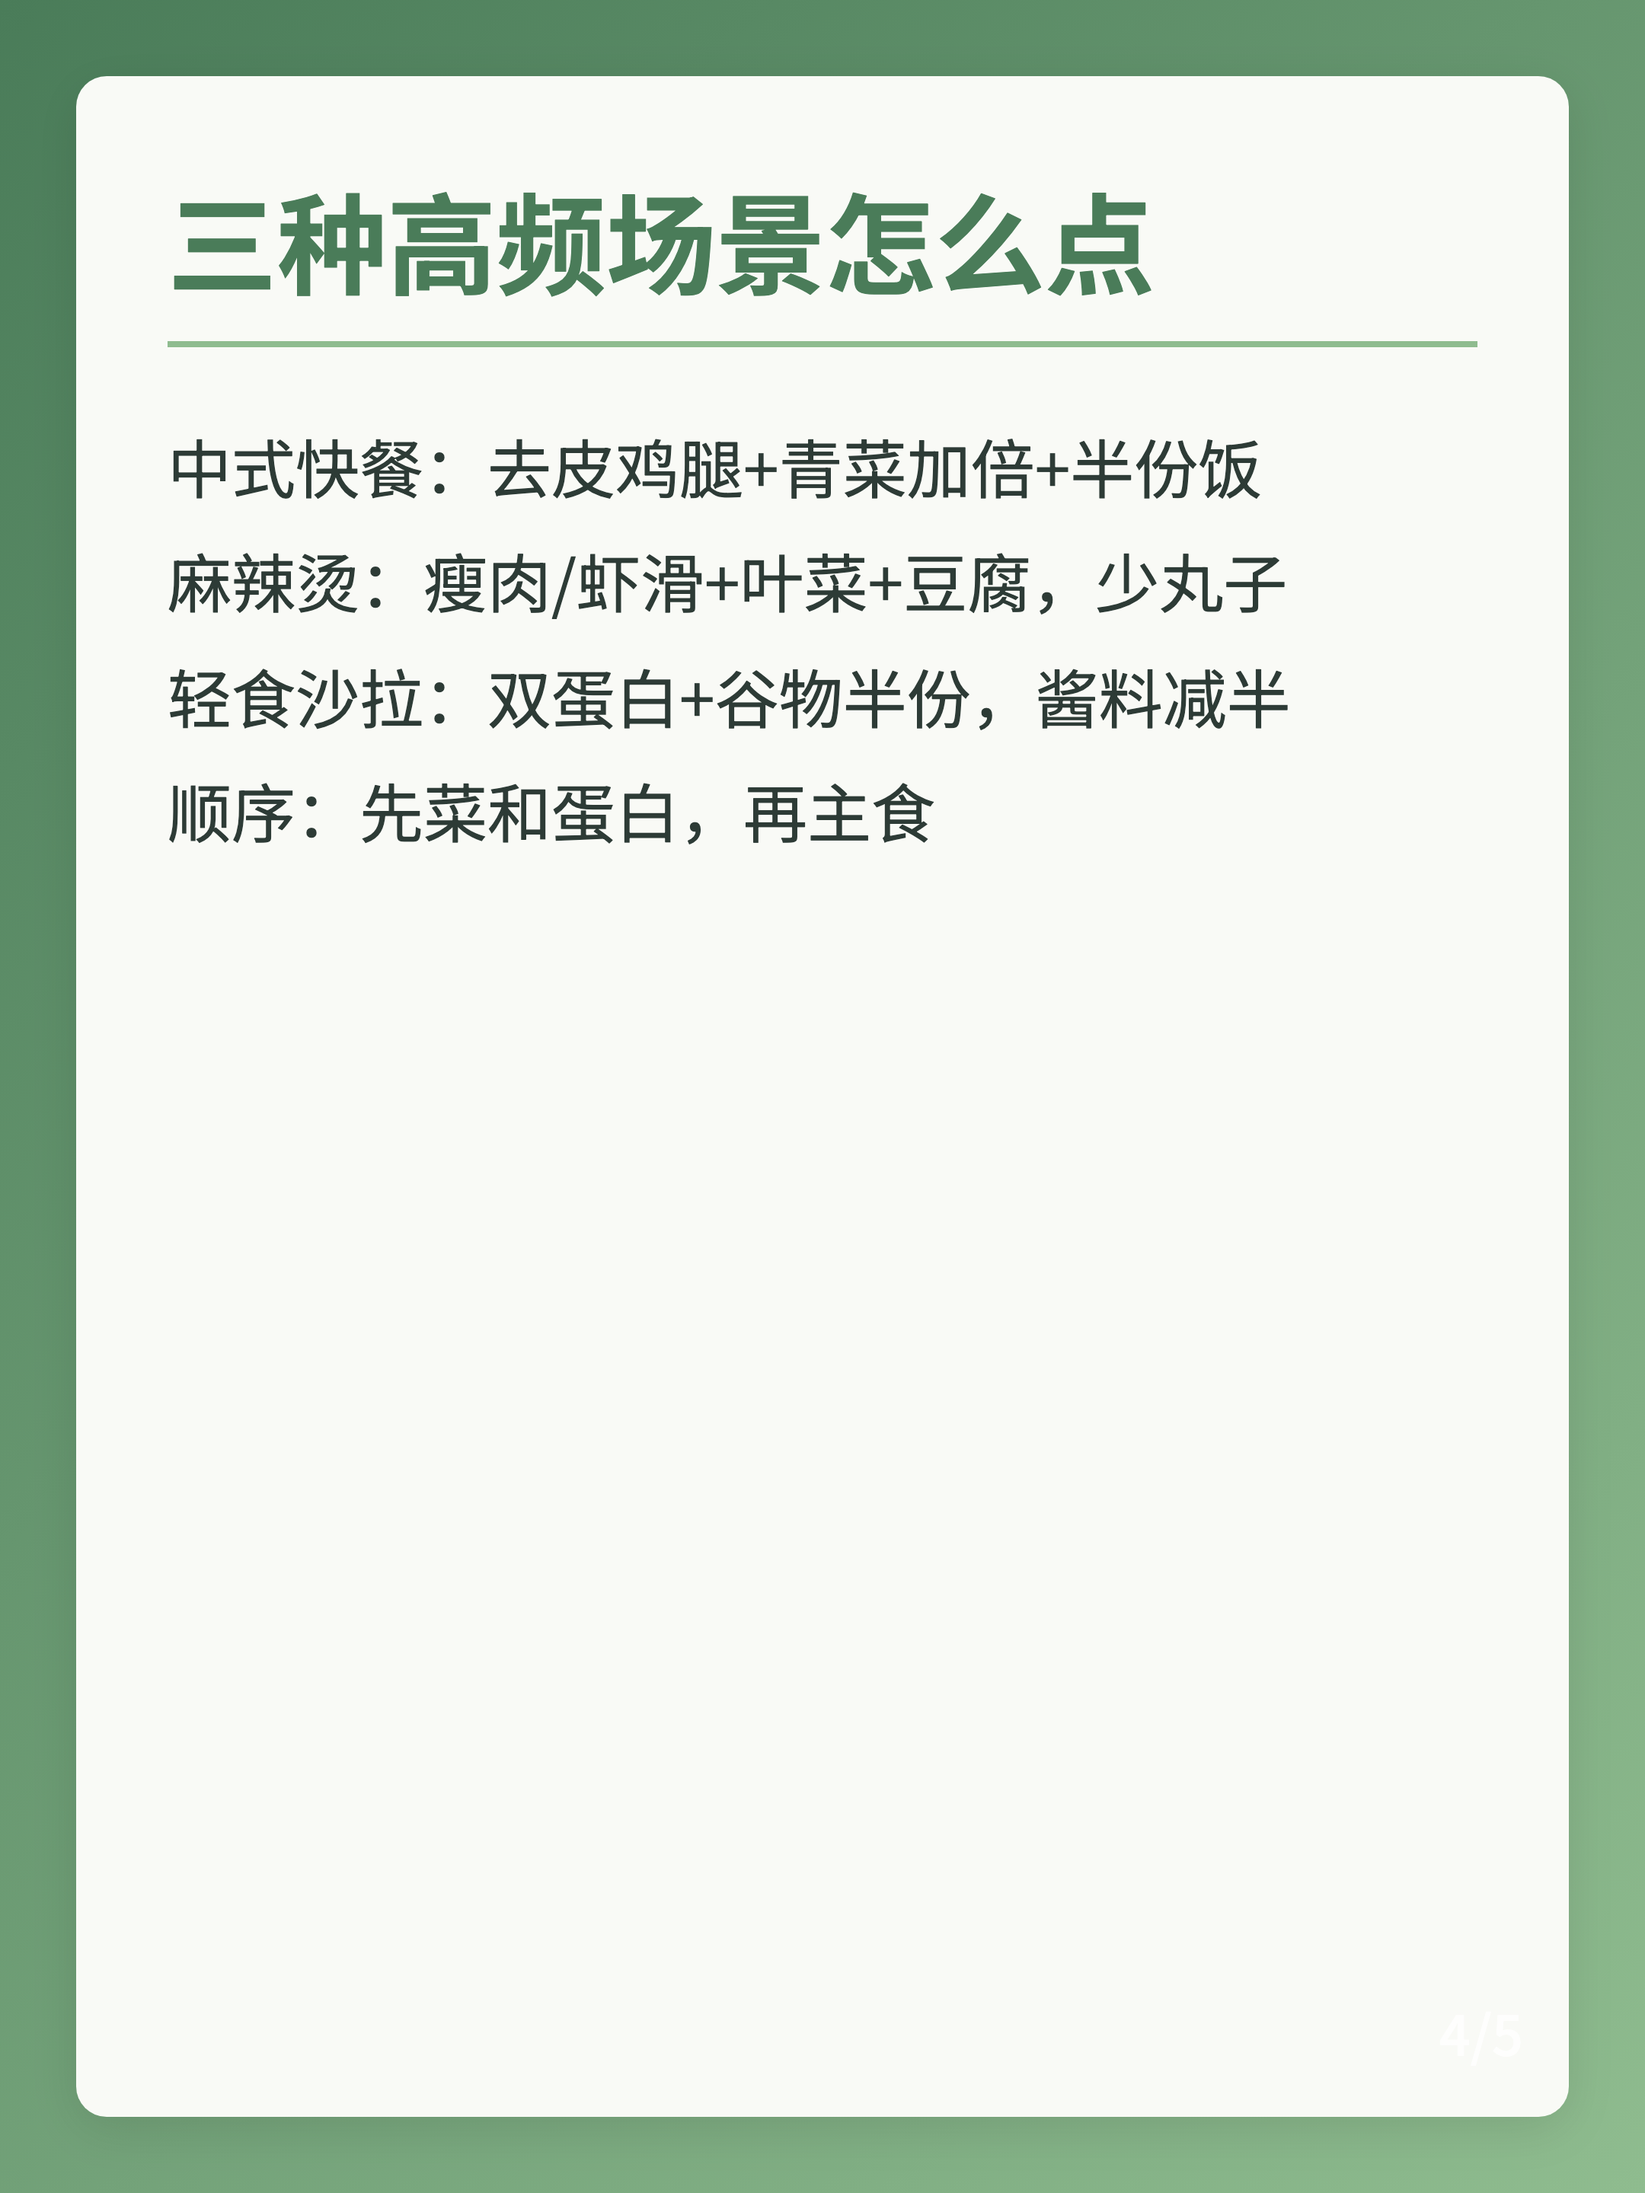
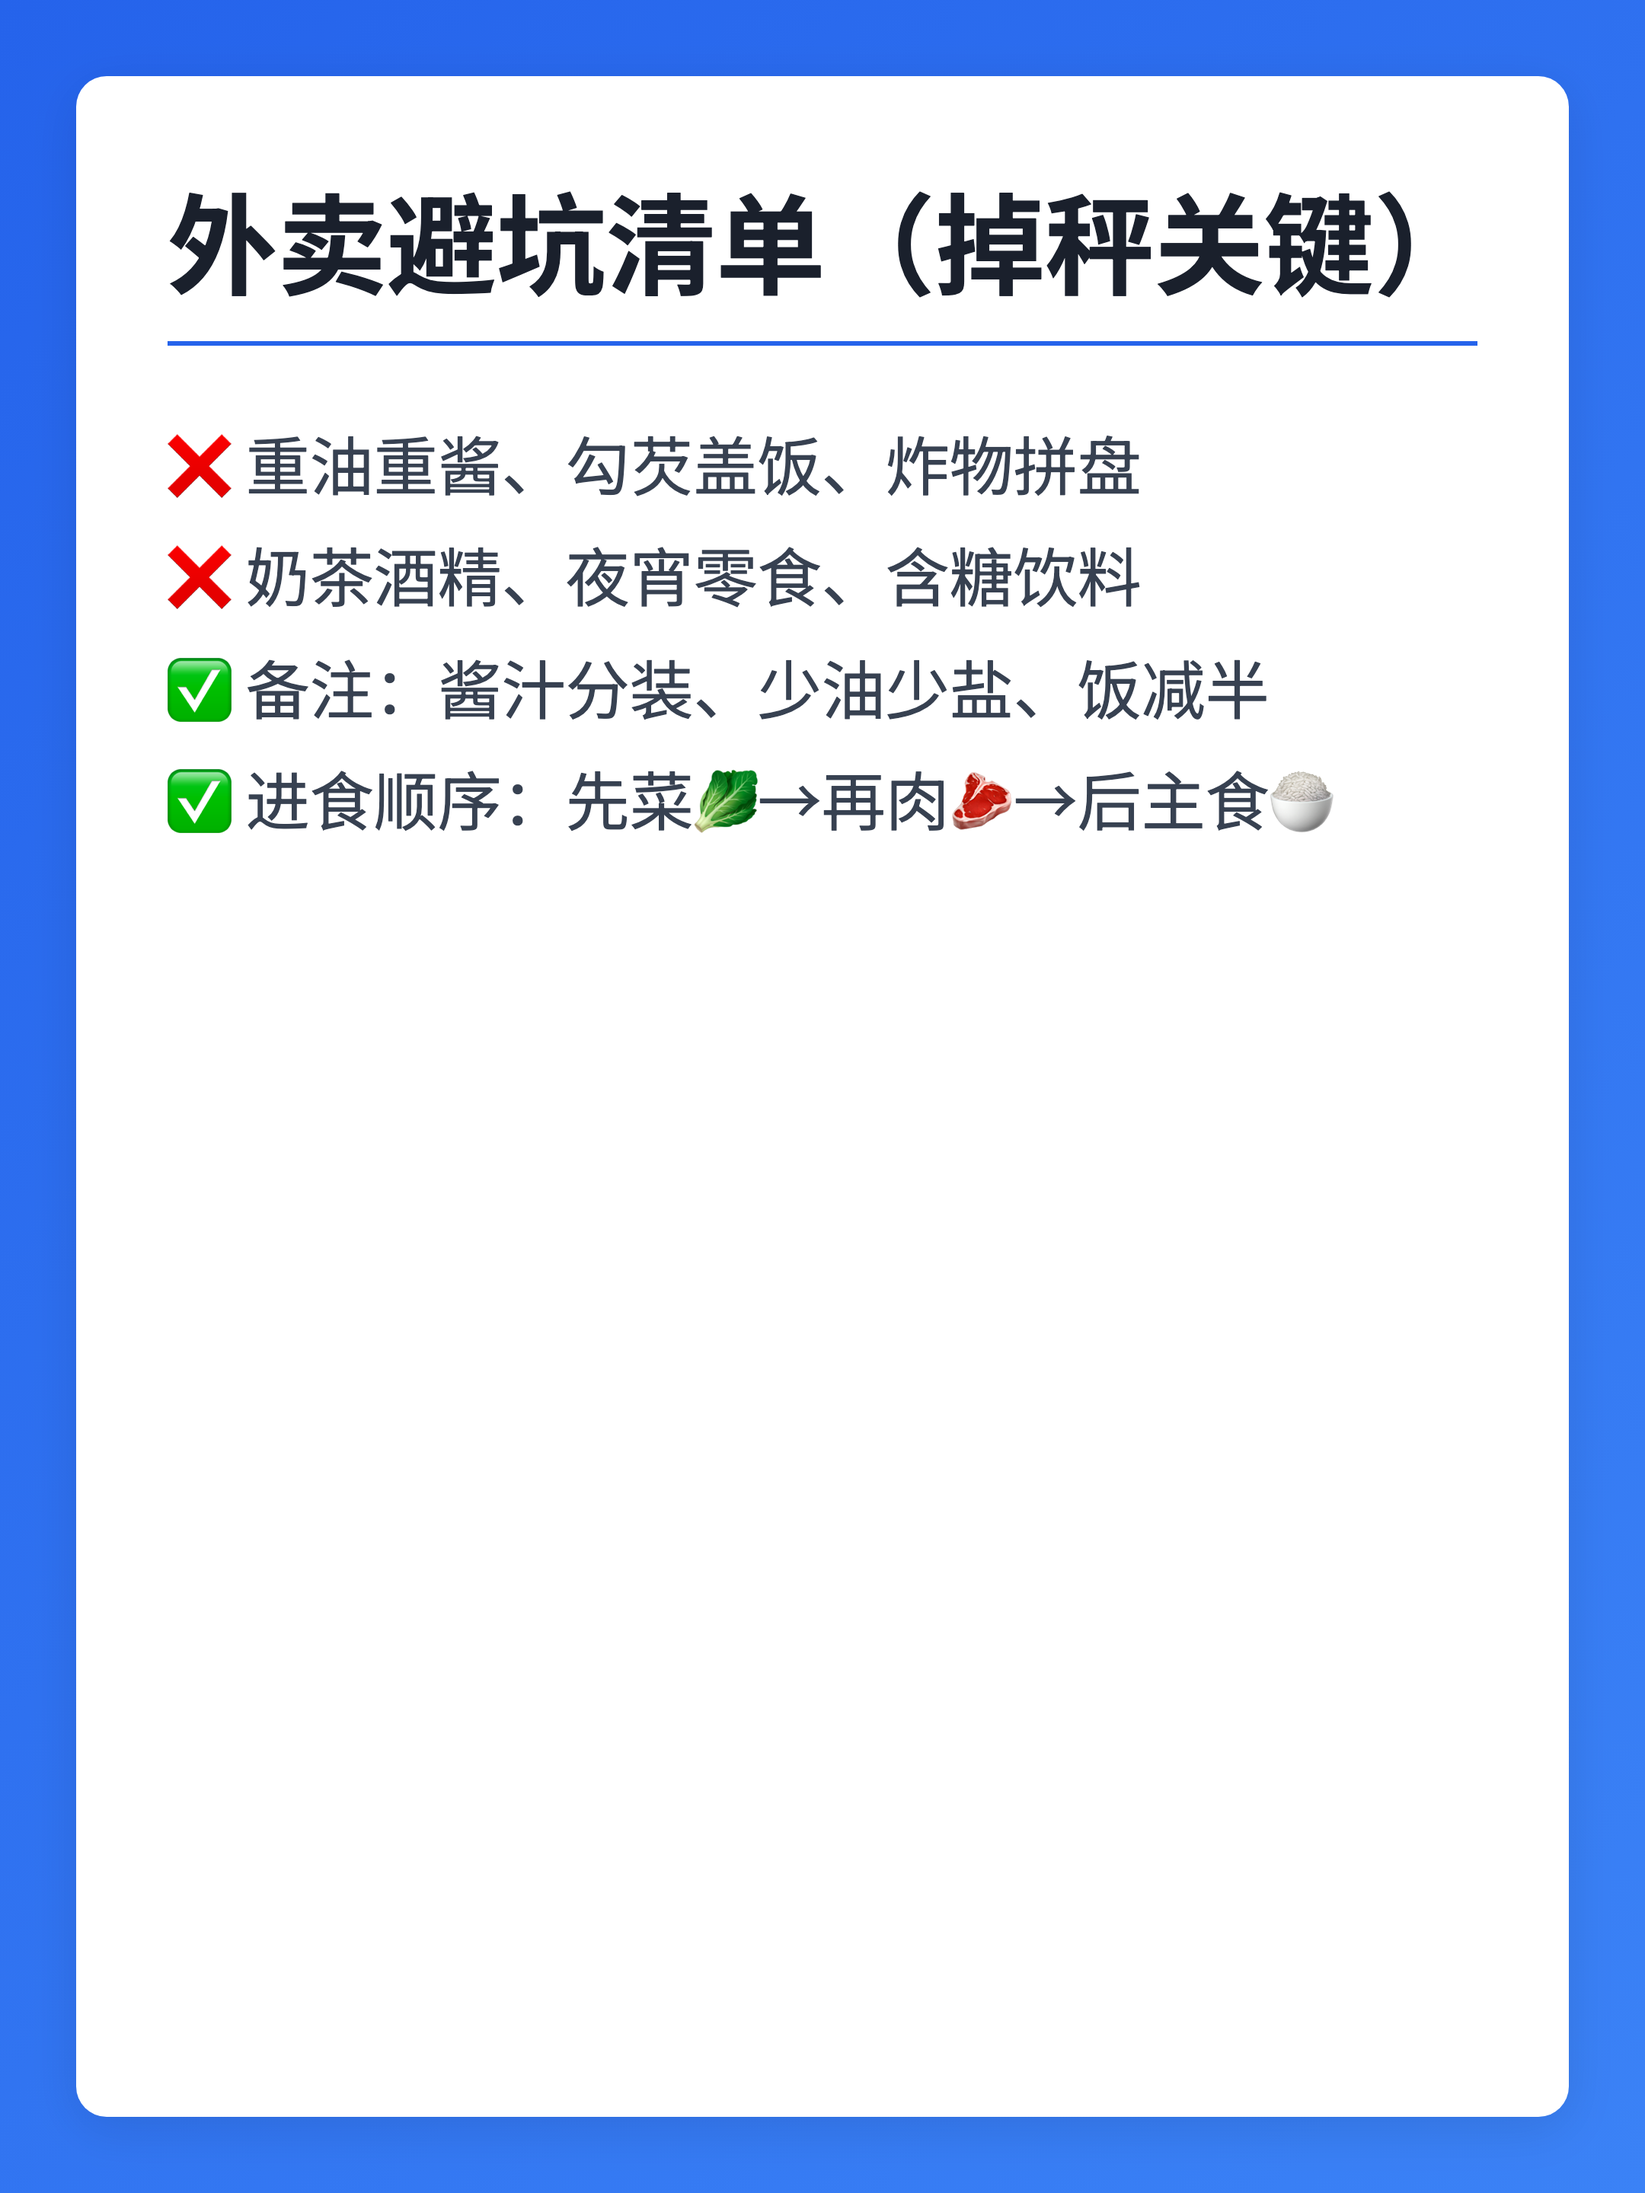
vault backup: 2026-03-03 15:33:57

Changed region(s): [[0.0, 0.0, 1.0, 1.0], [0.0931, 0.1875, 0.8065, 0.4062]]

diff --git a/小红书/草稿箱/2026-03-03-外卖减脂不掉肌.md b/小红书/草稿箱/2026-03-03-外卖减脂不掉肌.md
@@ -1,18 +1,18 @@
 ---
-emoji: "🥡"
-title: "外卖减脂30天"
-subtitle: "160斤男生不掉肌"
-xhs_title: "160斤外卖减脂30天不掉肌"
+emoji: "🔥"
+title: "160斤外卖党｜30天减脂实操"
+subtitle: "不挨饿也能掉脂不掉肌"
+xhs_title: "160斤外卖党30天减脂实操"
 xhs_tags:
   - 外卖减脂
   - 男生健身
   - 减脂不掉肌
-  - 体脂率
   - 高蛋白饮食
-  - 打工人减脂
   - 外卖点单公式
-  - 生活化减脂
-theme: botanical
+  - 打工人减脂
+  - 体脂率管理
+  - 减脂干货
+theme: professional
 mode: card
 status: draft
 created: 2026-03-03T15:23:20
@@ -45,52 +45,53 @@ source_notes:
 
 ## 发布文案
 
-160斤男生，工作忙、经常点外卖，也能30天掉脂不掉肌。核心不是“硬饿”，而是先把结构搭好。📌 每天维持300-500kcal热量缺口，同时把蛋白质吃到体重×1.6-2.0g。🥡 点单直接套公式：1掌高蛋白主菜 + 2拳蔬菜 + 半拳主食 + 0糖饮料，备注酱汁分装、少油少盐。🏋 训练日把碳水放在训练前后，周末聚餐按“蛋白→蔬菜→主食”吃，第二天正常恢复减脂餐，不补偿性断食。先连续执行14天，再根据体重7日均线和腰围微调。想要《外卖平台高蛋白关键词清单（省钱版）》评论区打：清单👇
+160斤男生外卖减脂，最怕“越减越虚”。这版给你可直接照抄的实操：🔥 每天热量缺口300-500kcal；🥩 每餐蛋白质吃到 **1.5到2掌心**；🥬 菜量至少2拳；🍚 主食留在训练前后。早餐直接抄 **2个水煮蛋+1瓶牛奶**，午晚餐按“高蛋白主菜+双份蔬菜+半份主食”点。酱汁分装、少油少盐、奶茶酒精先停30天。坚持14天再看体重7日均线和腰围，不要天天改计划。想要《外卖高蛋白关键词清单+一周点单模板》，评论区打：清单。
 
 ---
 
-# 别再硬饿：先做对框架
+# 首图怎么拍更有说服力
 
-160斤男生外卖减脂30天
-核心 = 热量缺口300-500kcal
-+ 蛋白质 1.6-2.0g/kg
-目标：掉脂不掉肌
-
----
-
-# 80kg男生日营养目标
-
-蛋白质：128-160g/天
-脂肪：48-64g/天
-碳水：训练前后优先吃
-饮水：2-2.5L
-至少执行14天再微调
+📸 左侧：160斤微胖肚子（自然站姿）
+📸 右侧：隐约腹肌肚子（轻收腹）
+同地点、同光线、同裤腰高度
+封面大字：160斤外卖党｜30天减脂实操
+（这页可作为你首图设计说明）
 
 ---
 
-# 外卖点单万能公式
+# 30天不掉肌的4条铁律
 
-1掌高蛋白主菜
-+ 2拳蔬菜
-+ 半拳主食
-+ 0糖饮料
-备注：酱汁分装、少油少盐
+🔥 热量缺口：300-500kcal/天
+🥩 每餐蛋白质：**1.5到2掌心**
+🥬 每天蔬菜：至少4拳
+🍚 碳水策略：训练前后优先吃
+先连续执行14天，再微调
 
 ---
 
-# 三种高频场景怎么点
+# 早中晚吃什么（照抄版）
 
-中式快餐：去皮鸡腿+青菜加倍+半份饭
-麻辣烫：瘦肉/虾滑+叶菜+豆腐，少丸子
-轻食沙拉：双蛋白+谷物半份，酱料减半
-顺序：先菜和蛋白，再主食
+| 餐次 | 吃什么 | 点单关键词 |
+|---|---|---|
+| 早餐 | **2个水煮蛋+1瓶牛奶** | 鸡蛋、纯牛奶、无糖酸奶 |
+| 午餐 | **1.5到2掌心蛋白质** + 双份蔬菜 + 半份饭 | 去皮鸡腿、牛肉、虾仁 |
+| 晚餐 | 1掌蛋白质 + 蔬菜加倍 + 少量主食 | 清汤麻辣烫、轻食双蛋白 |
+
+---
+
+# 外卖避坑清单（掉秤关键）
+
+❌ 重油重酱、勾芡盖饭、炸物拼盘
+❌ 奶茶酒精、夜宵零食、含糖饮料
+✅ 备注：酱汁分装、少油少盐、饭减半
+✅ 进食顺序：先菜🥬→再肉🥩→后主食🍚
 
 ---
 
 # 周末聚餐不反弹 SOP
 
-顺序：蛋白 → 蔬菜 → 主食
-吃到8分饱就停
-当晚不补偿性断食
-第二天回归正常减脂餐
-评论“清单”领高蛋白关键词
+第一步：先吃蛋白质和蔬菜
+第二步：主食吃半份，七八分饱停
+第三步：当天不补偿性断食
+第四步：次日直接恢复减脂餐
+评论「清单」领外卖高蛋白关键词
